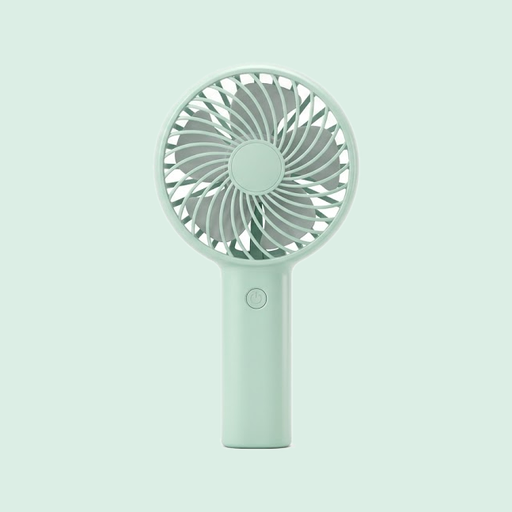
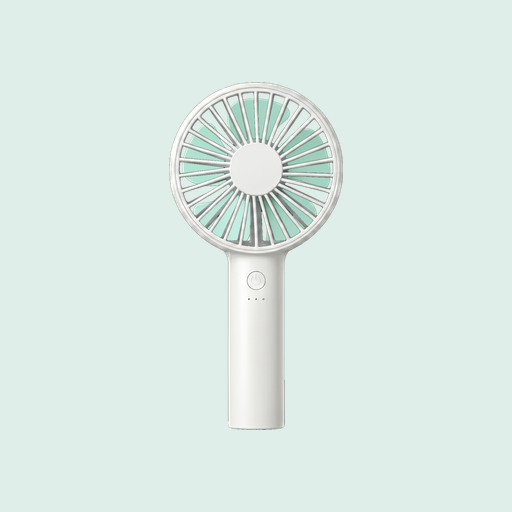
앱 이름을 '핸디 선풍기 (백색소음)'으로 변경, 아이콘을 흰색 선풍기로 교체

Changed region(s): [[0.3125, 0.125, 0.7188, 0.875]]

diff --git a/index.html b/index.html
@@ -3,14 +3,14 @@
 <head>
 <meta charset="UTF-8">
 <meta name="viewport" content="width=device-width, initial-scale=1, viewport-fit=cover">
-<title>핸디 선풍기</title>
+<title>핸디 선풍기 (백색소음)</title>
 <link rel="manifest" href="manifest.json">
 <meta name="theme-color" content="#aaccbb">
 <link rel="apple-touch-icon" href="icons/icon-192.png">
 <meta name="mobile-web-app-capable" content="yes">
 <meta name="apple-mobile-web-app-capable" content="yes">
 <meta name="apple-mobile-web-app-status-bar-style" content="default">
-<meta name="apple-mobile-web-app-title" content="선풍기">
+<meta name="apple-mobile-web-app-title" content="핸디 선풍기">
 <style>
   body{margin:0;background:#ffffff;display:flex;align-items:center;justify-content:center;min-height:100vh;font-family:sans-serif;-webkit-user-select:none;user-select:none}
   .app{text-align:center}

diff --git a/sw.js b/sw.js
@@ -1,4 +1,4 @@
-const CACHE_NAME = 'handy-fan-v11';
+const CACHE_NAME = 'handy-fan-v12';
 const ASSETS = ['./', './index.html', './manifest.json', './body.png', './blades.png', './icons/icon-192.png', './icons/icon-512.png'];
 
 self.addEventListener('install', (event) => {